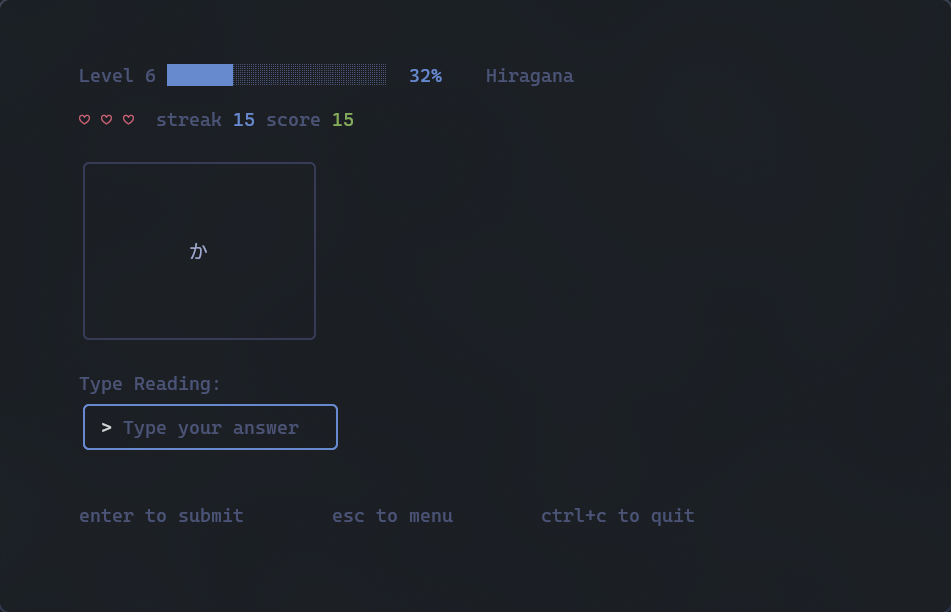
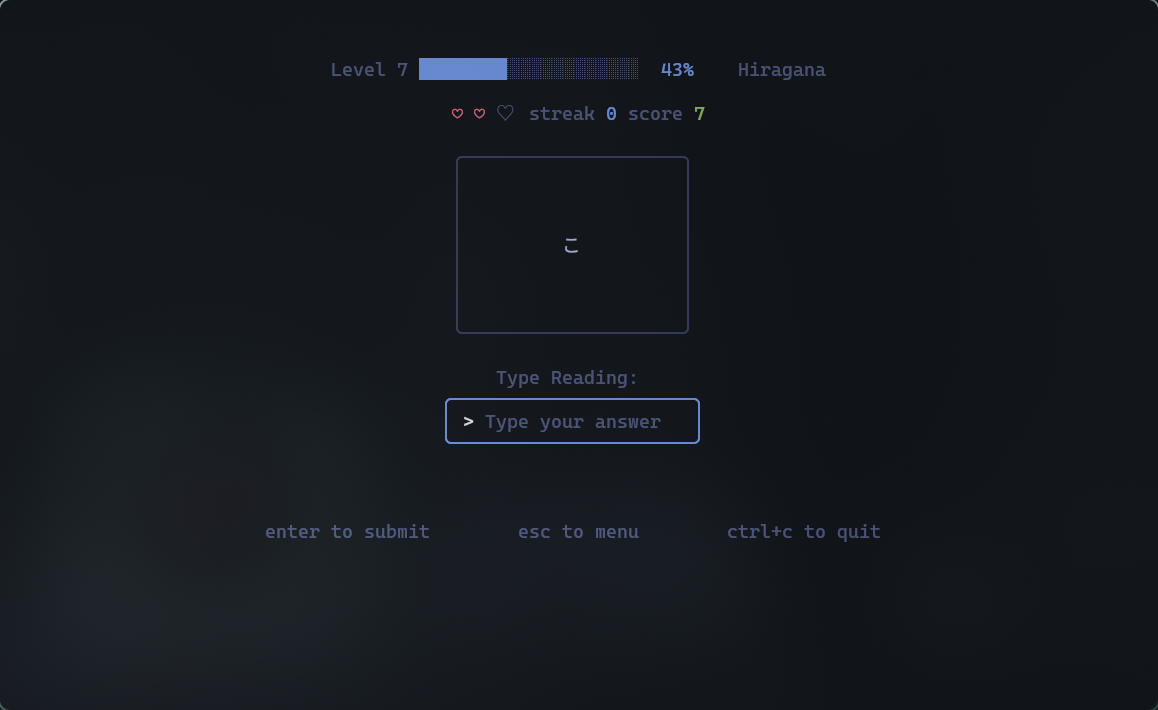
updated readme and assets

diff --git a/README.md b/README.md
@@ -1,25 +1,44 @@
-# かな練習 · kanarenshu
+<center> <h1>かな練習 · kanarenshu </h1></center>
 
-> Japanese kana practise for the terminal.
+<center>A minimal TUI application to practise Japanese kana and kanji from your terminal</center>
 
-![screenshot of main menu](/assets/main_menu.png)
-
-![screenshot of hiragana mode](/assets/hiragana_session.png)
-
-![screenshot of settings menu](/assets/settings_menu.png)
-
-kanarenshu is a terminal-based app for learning hiragana and katakana. 
+![gif playing](/assets/main.gif)
 
 ---
 
 ## Features
-- **Hiragana, Katakana, and Mixed** modes to choose from.
-- **Weight based selection** - Characters you answer wrong appear more often, while mastered ones fade out.
-- **Level based progression system** - Unlock new characters as you level up.
-- **5 built-in themes** - Tokyo Night, Catppuccin, Gruvbox, Nord, Dracula.
-- **Configurable** - lives, hints all editable via config file or the settings menu.
+- **Hiragana, Katakana, and Mixed** modes for kana practise.
+- **Kanji mode**: Graded by JLPT level (the app supports only N5 level currently), testing on on'yomi, kun'yomi, and English meaning.
+- **Weight-based character selection** - Characters you answer wrong appear more often, while mastered ones fade out.
+- **Level-based progression system** - Unlock new characters as you level up.
+- **Per-character stats**: Tracked separately for each mode, including each kanji tier.
+- **5 built-in themes**: Tokyo Night, Catppuccin, Gruvbox, Nord, Dracula. Cycle through each theme using `ctrl + t` or get a live preview from the settings menu.
+- **Configurable** - lives, hints, and theme, editable via config file or the in-app settings menu.
+
+<div style="display: flex; gap: 10px;">
+  <img src="/assets/main_menu.png" alt="screenshot of main menu" style="width: 50%;">
+  <img src="/assets/settings_menu.png" alt="screenshot of settings menu" style="width: 50%;">
+</div>
+
+<div style="display: flex; gap: 10px; margin-top: 10px;">
+  <img src="/assets/hiragana_session.png" alt="screenshot of hiragana mode" style="width: 50%;">
+  <img src="/assets/kanji_session.png" alt="screenshot of kanji mode" style="width: 50%;">
+</div>
+
+---
 
 ## Installation
+
+### AUR
+Using Yay:
+```bash
+yay -S kanarenshu
+```
+
+Using Paru:
+```bash
+paru -S kanarenshu
+```
 
 ### Nix
 Nix users can directly use this repository to get the latest kanarenshu for their system.
@@ -36,8 +55,11 @@ environment.systemPackages = [
 ];
 ```
 
+### Homebrew
+Coming soon
+
 ### From Source
-```base
+```bash
 git clone https://github.com/nuixyz/kanarenshu
 cd kanarenshu
 go build ./cmd/kanarenshu
@@ -47,10 +69,12 @@ go build ./cmd/kanarenshu
 
 - Go 1.21 or later (uses `//go:embed`)
 
+---
+
 ## Usage
 
-```bash
-./kanarenshu
+```
+kanarenshu
 ```
 
 Use the arrow keys or `j/k` to navigate the menu, 
@@ -80,13 +104,22 @@ Both strict Hepburn and common alternatives are accepted by default:
 | じ | `ji`, `zi` |
 | ん | `n`, `nn` |
 
+### Kanji mode
+
+Select **Kanji** from the main menu, then choose a JLPT level. For each character, any of its on'yomi readings, kun'yomi readings or the English meanings are accepted as a correct answer. A wrong answer reveals the readings and meanings as a hint. Progress of each JLPT tier is tracked independently.
+
+---
 
 ## Progression
 
-Characters are grouped into levels of 5. The program uses an adaptive learning algorithm to determine the weights of each character in a group.
-Within a level, the character selection is weighted. A correct answer halves a character's weight; a wrong answer doubles it (capped to its initial value). Characters reach mastery when their weights fall below a certain threshold. All characters in a group must fall under the threshold to level up. 
+Kana are grouped into levels of 5, kanji are grouped into levels of 10. The app uses an adaptive learning algorithm to determine how often a character appears in a group:
 
-The highest unlocked level is saved automatically and resumed on next launch.
+- A correct answer halves a character's weight.
+- A wrong answer doubles it (capped at the initial weight of 400).
+- A character is considered mastered once it reaches a threshold weight of 25 or below.
+- A level up condition is triggered once every character in the current group is mastered.
+
+The highest unlocked level for each mode is saved automatically and resumed on next launch.
 
 ---
 
@@ -105,7 +138,7 @@ romaji_strict = false           # true = Hepburn only (e.g. "shi", not "si")
 show_hints    = true            # show reading hint after a wrong answer
 ```
 
-Changes take affect on next launch, or can be applied live via the in-app settings menu
+Changes take effect on next launch, or can be applied live via the in-app settings menu
 
 ---
 
@@ -132,6 +165,21 @@ Themes can be changed in the settings menu (`s` from the main menu) or cycled in
 | `~/.local/share/kanarenshu/debug.log` | Debug log |
  
 XDG environment variables (`$XDG_CONFIG_HOME`, `$XDG_DATA_HOME`) are respected if set.
+ 
+---
+
+## Project layout
+ 
+```
+cmd/kanarenshu/         entry point
+internal/data/          hiragana, katakana, and kanji groupings; per level pools
+internal/game/          session logic, scoring, weight-based progression
+internal/storage/       config and progress persistence
+internal/theme/         embedded TOML theme palettes
+internal/ui/            Bubble Tea screens and reusable components
+pkg/romaji/             kana <-> romaji tables and answer checking
+pkg/kanji/              kanji data and answer validation (readings/meanings)
+```
  
 ---
 